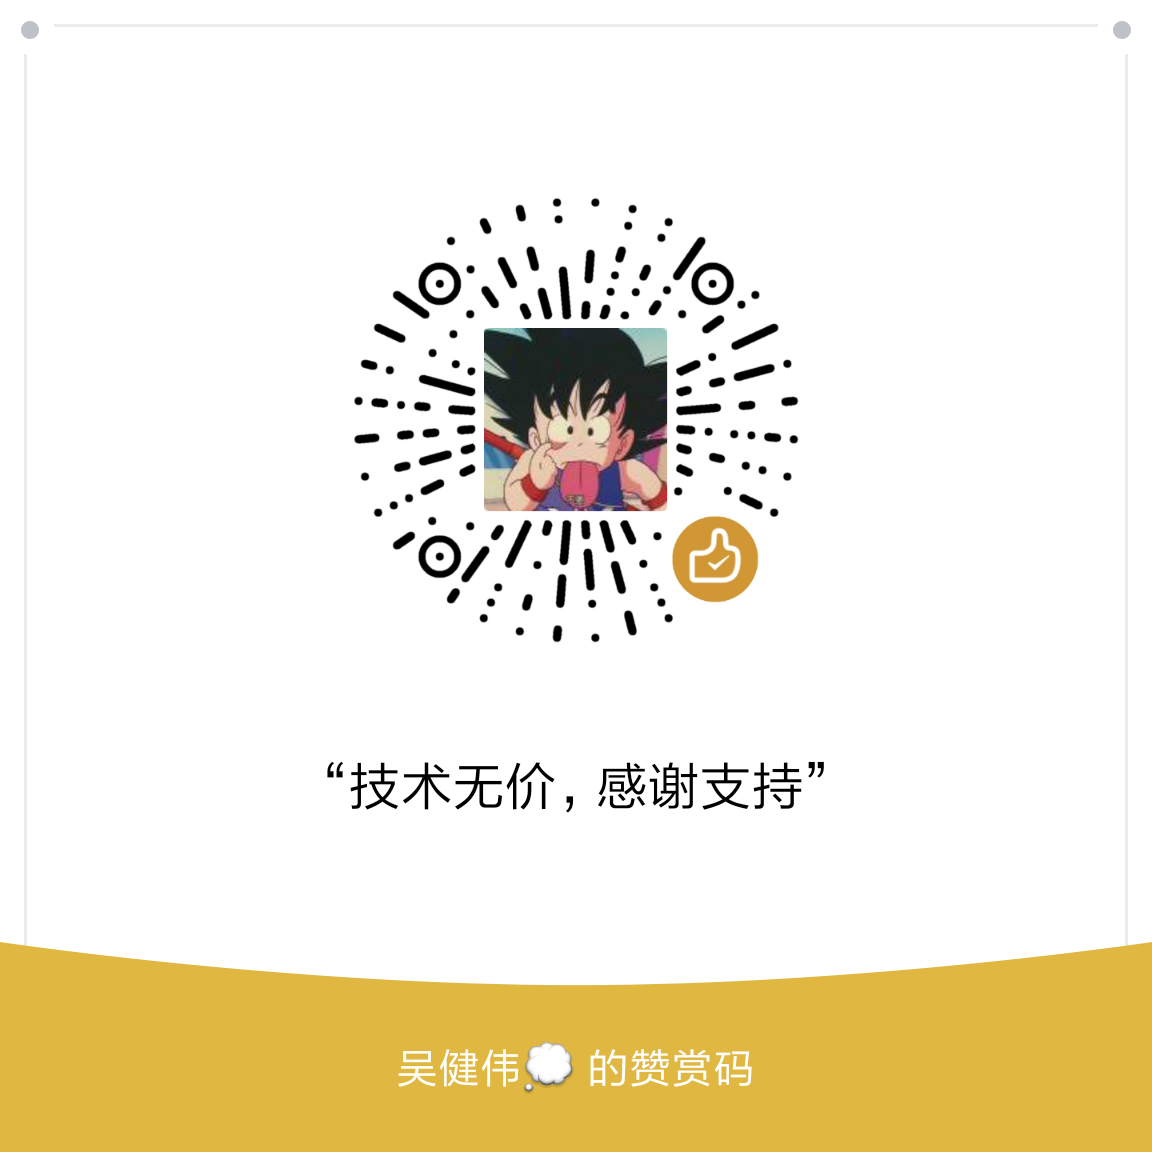
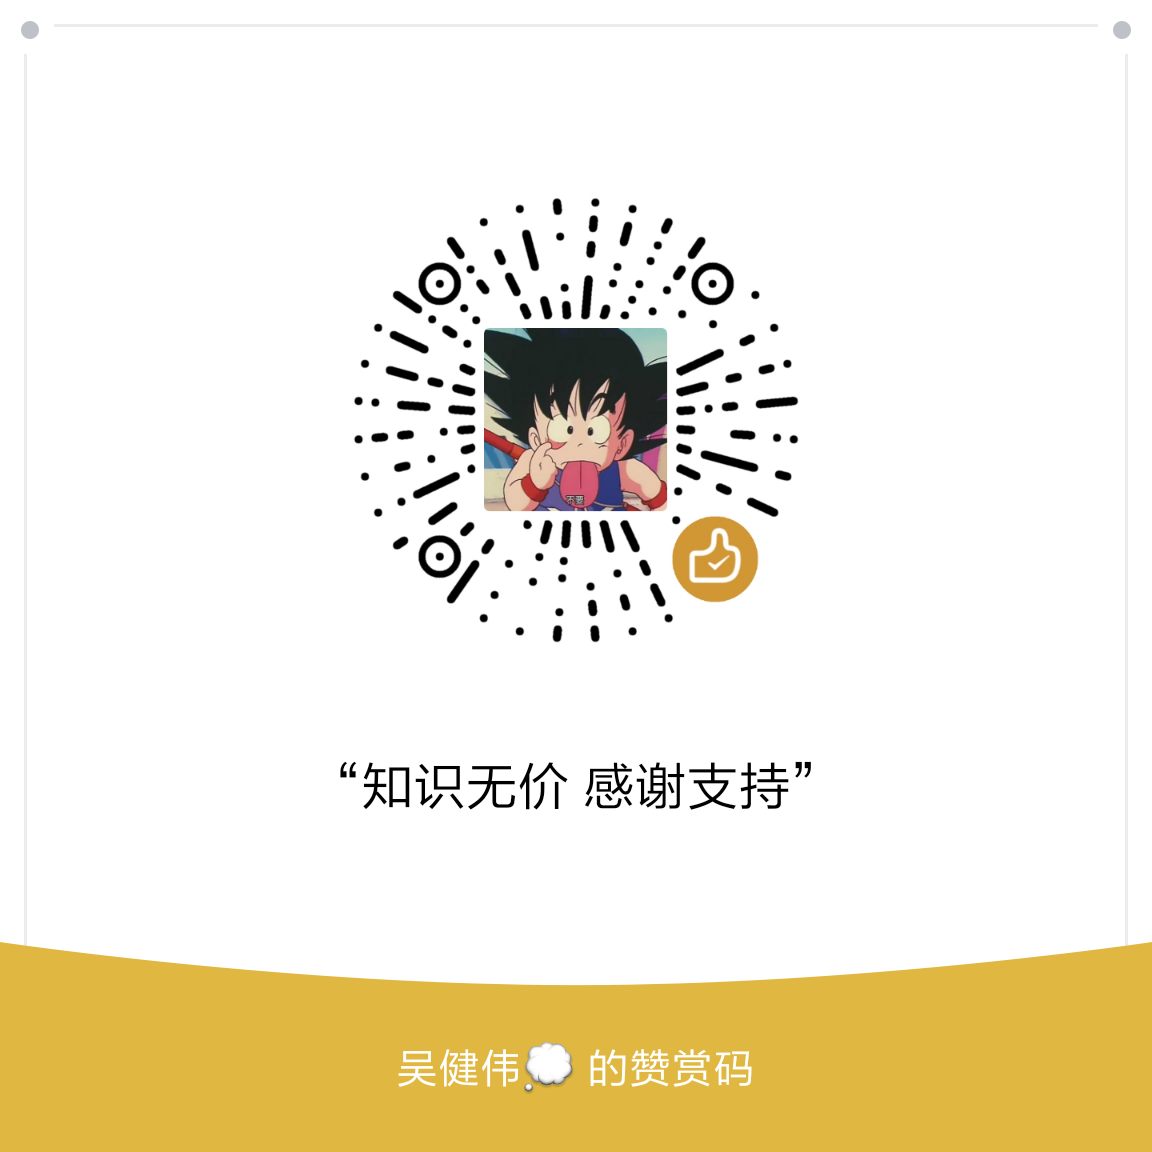
Site updated: 2018-09-14 00:14:11

diff --git a/2018/09/09/hexo-rss/index.html b/2018/09/09/hexo-rss/index.html
@@ -79,10 +79,10 @@
   <link rel="apple-touch-icon" sizes="180x180" href="/images/apple-touch-icon-next.png?v=6.4.1">
 
 
-  <link rel="icon" type="image/png" sizes="32x32" href="/image/favicon.ico?v=6.4.1">
+  <link rel="icon" type="image/png" sizes="32x32" href="/images/favicon-32x32-next.png?v=6.4.1">
 
 
-  <link rel="icon" type="image/png" sizes="16x16" href="/image/W_Letter_16px.png?v=6.4.1">
+  <link rel="icon" type="image/png" sizes="16x16" href="/images/favicon-16x16-next.png?v=6.4.1">
 
 
   <link rel="mask-icon" href="/images/logo.svg?v=6.4.1" color="#222">
@@ -558,7 +558,7 @@ limit: 20
     
       <div>
         <div style="padding: 10px 0; margin: 20px auto; width: 90%; text-align: center;">
-  <div>Donate comment here</div>
+  <div>Knowledge is priceless, thanks for your support ！</div>
   <button id="rewardButton" disable="enable" onclick="var qr = document.getElementById('QR'); if (qr.style.display === 'none') {qr.style.display='block';} else {qr.style.display='none'}">
     <span>打赏</span>
   </button>
@@ -566,7 +566,7 @@ limit: 20
 
     
       <div id="wechat" style="display: inline-block">
-        <img id="wechat_qr" src="/images/wechatpay.png" alt="Jeremy 微信支付"/>
+        <img id="wechat_qr" src="/images/wechat-reward-image.png" alt="Jeremy 微信支付"/>
         <p>微信支付</p>
       </div>
     

diff --git a/2018/09/09/hello-world/index.html b/2018/09/09/hello-world/index.html
@@ -79,10 +79,10 @@
   <link rel="apple-touch-icon" sizes="180x180" href="/images/apple-touch-icon-next.png?v=6.4.1">
 
 
-  <link rel="icon" type="image/png" sizes="32x32" href="/image/favicon.ico?v=6.4.1">
+  <link rel="icon" type="image/png" sizes="32x32" href="/images/favicon-32x32-next.png?v=6.4.1">
 
 
-  <link rel="icon" type="image/png" sizes="16x16" href="/image/W_Letter_16px.png?v=6.4.1">
+  <link rel="icon" type="image/png" sizes="16x16" href="/images/favicon-16x16-next.png?v=6.4.1">
 
 
   <link rel="mask-icon" href="/images/logo.svg?v=6.4.1" color="#222">
@@ -535,7 +535,7 @@
     
       <div>
         <div style="padding: 10px 0; margin: 20px auto; width: 90%; text-align: center;">
-  <div>Donate comment here</div>
+  <div>Knowledge is priceless, thanks for your support ！</div>
   <button id="rewardButton" disable="enable" onclick="var qr = document.getElementById('QR'); if (qr.style.display === 'none') {qr.style.display='block';} else {qr.style.display='none'}">
     <span>打赏</span>
   </button>
@@ -543,7 +543,7 @@
 
     
       <div id="wechat" style="display: inline-block">
-        <img id="wechat_qr" src="/images/wechatpay.png" alt="Jeremy 微信支付"/>
+        <img id="wechat_qr" src="/images/wechat-reward-image.png" alt="Jeremy 微信支付"/>
         <p>微信支付</p>
       </div>
     

diff --git a/2018/09/11/计算机网络/index.html b/2018/09/11/计算机网络/index.html
@@ -79,10 +79,10 @@
   <link rel="apple-touch-icon" sizes="180x180" href="/images/apple-touch-icon-next.png?v=6.4.1">
 
 
-  <link rel="icon" type="image/png" sizes="32x32" href="/image/favicon.ico?v=6.4.1">
+  <link rel="icon" type="image/png" sizes="32x32" href="/images/favicon-32x32-next.png?v=6.4.1">
 
 
-  <link rel="icon" type="image/png" sizes="16x16" href="/image/W_Letter_16px.png?v=6.4.1">
+  <link rel="icon" type="image/png" sizes="16x16" href="/images/favicon-16x16-next.png?v=6.4.1">
 
 
   <link rel="mask-icon" href="/images/logo.svg?v=6.4.1" color="#222">
@@ -616,7 +616,7 @@
     
       <div>
         <div style="padding: 10px 0; margin: 20px auto; width: 90%; text-align: center;">
-  <div>Donate comment here</div>
+  <div>Knowledge is priceless, thanks for your support ！</div>
   <button id="rewardButton" disable="enable" onclick="var qr = document.getElementById('QR'); if (qr.style.display === 'none') {qr.style.display='block';} else {qr.style.display='none'}">
     <span>打赏</span>
   </button>
@@ -624,7 +624,7 @@
 
     
       <div id="wechat" style="display: inline-block">
-        <img id="wechat_qr" src="/images/wechatpay.png" alt="Jeremy 微信支付"/>
+        <img id="wechat_qr" src="/images/wechat-reward-image.png" alt="Jeremy 微信支付"/>
         <p>微信支付</p>
       </div>
     

diff --git a/about/index.html b/about/index.html
@@ -79,10 +79,10 @@
   <link rel="apple-touch-icon" sizes="180x180" href="/images/apple-touch-icon-next.png?v=6.4.1">
 
 
-  <link rel="icon" type="image/png" sizes="32x32" href="/image/favicon.ico?v=6.4.1">
+  <link rel="icon" type="image/png" sizes="32x32" href="/images/favicon-32x32-next.png?v=6.4.1">
 
 
-  <link rel="icon" type="image/png" sizes="16x16" href="/image/W_Letter_16px.png?v=6.4.1">
+  <link rel="icon" type="image/png" sizes="16x16" href="/images/favicon-16x16-next.png?v=6.4.1">
 
 
   <link rel="mask-icon" href="/images/logo.svg?v=6.4.1" color="#222">

diff --git a/archives/2018/09/index.html b/archives/2018/09/index.html
@@ -79,10 +79,10 @@
   <link rel="apple-touch-icon" sizes="180x180" href="/images/apple-touch-icon-next.png?v=6.4.1">
 
 
-  <link rel="icon" type="image/png" sizes="32x32" href="/image/favicon.ico?v=6.4.1">
+  <link rel="icon" type="image/png" sizes="32x32" href="/images/favicon-32x32-next.png?v=6.4.1">
 
 
-  <link rel="icon" type="image/png" sizes="16x16" href="/image/W_Letter_16px.png?v=6.4.1">
+  <link rel="icon" type="image/png" sizes="16x16" href="/images/favicon-16x16-next.png?v=6.4.1">
 
 
   <link rel="mask-icon" href="/images/logo.svg?v=6.4.1" color="#222">

diff --git a/archives/2018/index.html b/archives/2018/index.html
@@ -79,10 +79,10 @@
   <link rel="apple-touch-icon" sizes="180x180" href="/images/apple-touch-icon-next.png?v=6.4.1">
 
 
-  <link rel="icon" type="image/png" sizes="32x32" href="/image/favicon.ico?v=6.4.1">
+  <link rel="icon" type="image/png" sizes="32x32" href="/images/favicon-32x32-next.png?v=6.4.1">
 
 
-  <link rel="icon" type="image/png" sizes="16x16" href="/image/W_Letter_16px.png?v=6.4.1">
+  <link rel="icon" type="image/png" sizes="16x16" href="/images/favicon-16x16-next.png?v=6.4.1">
 
 
   <link rel="mask-icon" href="/images/logo.svg?v=6.4.1" color="#222">

diff --git a/archives/index.html b/archives/index.html
@@ -79,10 +79,10 @@
   <link rel="apple-touch-icon" sizes="180x180" href="/images/apple-touch-icon-next.png?v=6.4.1">
 
 
-  <link rel="icon" type="image/png" sizes="32x32" href="/image/favicon.ico?v=6.4.1">
+  <link rel="icon" type="image/png" sizes="32x32" href="/images/favicon-32x32-next.png?v=6.4.1">
 
 
-  <link rel="icon" type="image/png" sizes="16x16" href="/image/W_Letter_16px.png?v=6.4.1">
+  <link rel="icon" type="image/png" sizes="16x16" href="/images/favicon-16x16-next.png?v=6.4.1">
 
 
   <link rel="mask-icon" href="/images/logo.svg?v=6.4.1" color="#222">

diff --git a/categories/Hexo搭建/index.html b/categories/Hexo搭建/index.html
@@ -79,10 +79,10 @@
   <link rel="apple-touch-icon" sizes="180x180" href="/images/apple-touch-icon-next.png?v=6.4.1">
 
 
-  <link rel="icon" type="image/png" sizes="32x32" href="/image/favicon.ico?v=6.4.1">
+  <link rel="icon" type="image/png" sizes="32x32" href="/images/favicon-32x32-next.png?v=6.4.1">
 
 
-  <link rel="icon" type="image/png" sizes="16x16" href="/image/W_Letter_16px.png?v=6.4.1">
+  <link rel="icon" type="image/png" sizes="16x16" href="/images/favicon-16x16-next.png?v=6.4.1">
 
 
   <link rel="mask-icon" href="/images/logo.svg?v=6.4.1" color="#222">

diff --git a/categories/index.html b/categories/index.html
@@ -79,10 +79,10 @@
   <link rel="apple-touch-icon" sizes="180x180" href="/images/apple-touch-icon-next.png?v=6.4.1">
 
 
-  <link rel="icon" type="image/png" sizes="32x32" href="/image/favicon.ico?v=6.4.1">
+  <link rel="icon" type="image/png" sizes="32x32" href="/images/favicon-32x32-next.png?v=6.4.1">
 
 
-  <link rel="icon" type="image/png" sizes="16x16" href="/image/W_Letter_16px.png?v=6.4.1">
+  <link rel="icon" type="image/png" sizes="16x16" href="/images/favicon-16x16-next.png?v=6.4.1">
 
 
   <link rel="mask-icon" href="/images/logo.svg?v=6.4.1" color="#222">

diff --git a/categories/杂聊/index.html b/categories/杂聊/index.html
@@ -79,10 +79,10 @@
   <link rel="apple-touch-icon" sizes="180x180" href="/images/apple-touch-icon-next.png?v=6.4.1">
 
 
-  <link rel="icon" type="image/png" sizes="32x32" href="/image/favicon.ico?v=6.4.1">
+  <link rel="icon" type="image/png" sizes="32x32" href="/images/favicon-32x32-next.png?v=6.4.1">
 
 
-  <link rel="icon" type="image/png" sizes="16x16" href="/image/W_Letter_16px.png?v=6.4.1">
+  <link rel="icon" type="image/png" sizes="16x16" href="/images/favicon-16x16-next.png?v=6.4.1">
 
 
   <link rel="mask-icon" href="/images/logo.svg?v=6.4.1" color="#222">

diff --git a/categories/笔记/index.html b/categories/笔记/index.html
@@ -79,10 +79,10 @@
   <link rel="apple-touch-icon" sizes="180x180" href="/images/apple-touch-icon-next.png?v=6.4.1">
 
 
-  <link rel="icon" type="image/png" sizes="32x32" href="/image/favicon.ico?v=6.4.1">
+  <link rel="icon" type="image/png" sizes="32x32" href="/images/favicon-32x32-next.png?v=6.4.1">
 
 
-  <link rel="icon" type="image/png" sizes="16x16" href="/image/W_Letter_16px.png?v=6.4.1">
+  <link rel="icon" type="image/png" sizes="16x16" href="/images/favicon-16x16-next.png?v=6.4.1">
 
 
   <link rel="mask-icon" href="/images/logo.svg?v=6.4.1" color="#222">

diff --git a/index.html b/index.html
@@ -79,10 +79,10 @@
   <link rel="apple-touch-icon" sizes="180x180" href="/images/apple-touch-icon-next.png?v=6.4.1">
 
 
-  <link rel="icon" type="image/png" sizes="32x32" href="/image/favicon.ico?v=6.4.1">
+  <link rel="icon" type="image/png" sizes="32x32" href="/images/favicon-32x32-next.png?v=6.4.1">
 
 
-  <link rel="icon" type="image/png" sizes="16x16" href="/image/W_Letter_16px.png?v=6.4.1">
+  <link rel="icon" type="image/png" sizes="16x16" href="/images/favicon-16x16-next.png?v=6.4.1">
 
 
   <link rel="mask-icon" href="/images/logo.svg?v=6.4.1" color="#222">
